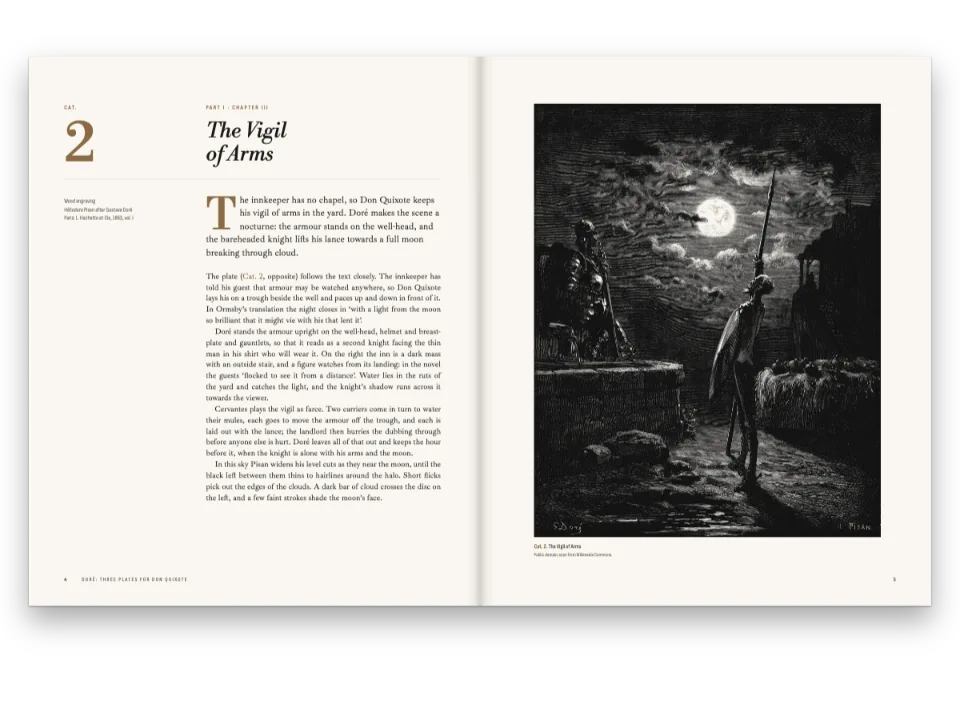
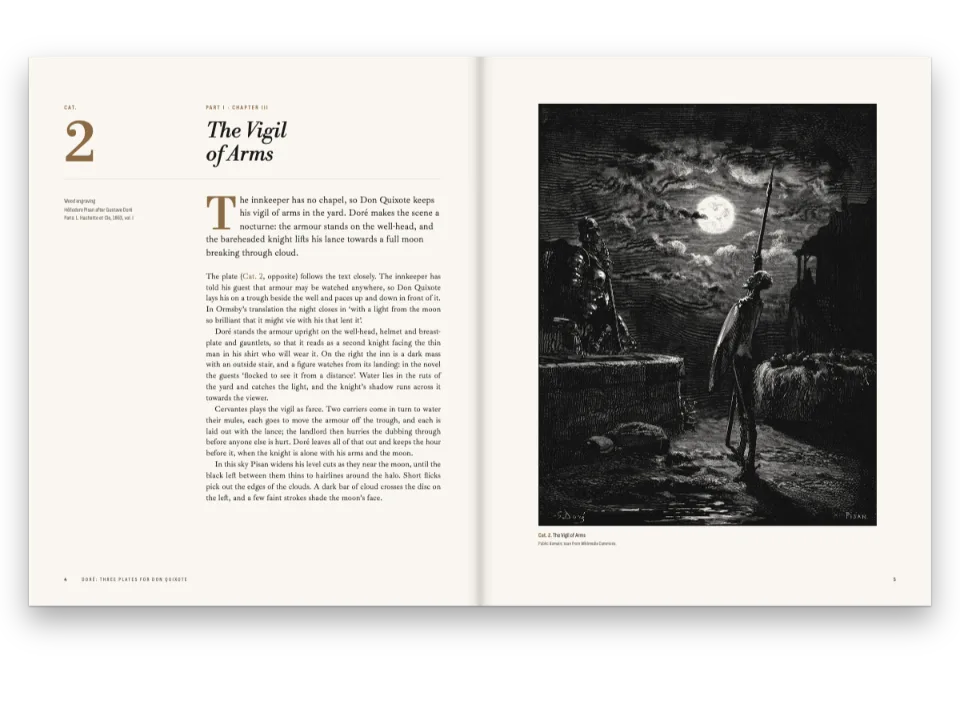
cookbook: Nº 034 shrinks its plates to the text block on 1.24
Nº 034 catalogue-facing-plates places each plate with shrink: 'page',
minScale 0.5, captionMeasure 'body' and align 'center', so the engine
scales plate, caption and credit to the text block (about 215 mm tall,
283 dpi) instead of a width fraction computed from PLATE_H; UNDER,
PLATE_H and workaround EF-98 are gone, and the write-ups explain the
placement in seven languages. Pinned to postext 1.24.0 and recaptured
from npm: only the three plate pages change. The float-shrink gap is
fixed in 1.24.0.

refs #626

Changed region(s): [[0.5312, 0.1528, 0.9375, 0.7944]]

diff --git a/cookbook/catalogue-facing-plates/script.js b/cookbook/catalogue-facing-plates/script.js
@@ -1,7 +1,7 @@
 // ═══ Postext Cookbook · Nº 034 · Catalogue entries facing their plates ══════════════
 // https://postext.dev/en/cookbook/catalogue-facing-plates
 // Code: MIT · Text: original (CC BY 4.0), Ormsby 1885 (PD) · Plates: Doré and Pisan, 1863 (PD)
-// Fonts: Ibarra Real Nova, Libre Bodoni, Sofia Sans Condensed (OFL 1.1) · Needs postext ≥ 1.23.0
+// Fonts: Ibarra Real Nova, Libre Bodoni, Sofia Sans Condensed (OFL 1.1) · Needs postext ≥ 1.24.0
 import { buildDocument, renderPageToCanvas, clearMeasurementCache, registerResourceImage }
   from 'https://esm.sh/postext';
 
@@ -47,19 +47,17 @@ const entryLevel = () => ({
 const plateType = {
   id: 'plate', name: 'Cat.', shortLabel: 'Cat.', captionPrefix: 'Cat.', // 'Cat. 1. …'
   numberingTemplate: '{n}', resetOn: 'never', counterFormat: 'decimal',
-  defaultPlacement: { position: 'top', span: 'page', align: 'center' },
+  // A plate taller than the recto's text block is scaled, proportions kept, until plate, caption
+  // and credit line fit it; the caption takes the plate's width, and both are centred.
+  defaultPlacement: { position: 'top', span: 'page', align: 'center',
+    shrink: 'page', minScale: 0.5, captionMeasure: 'body' },
 };
-// Under the plate (pt): a caption and a credit line at the body's leading ratio, and their gaps.
+// Under the plate (pt): a caption and a credit line, and their gaps.
 const CAPTION = { size: 8.5, gap: 6, note: 7.2, noteGap: 1.5 };
-const UNDER = (CAPTION.size + CAPTION.note) * (LEAD / SIZE) + CAPTION.gap + CAPTION.noteGap;
-const PLATE_H = (LINES * LEAD - UNDER) * PT; // 221.1 mm: the rest of the text block
-// A float is not shrunk to fit the room left on its page (gap: float-shrink); fitFiguresToPage
-// sets the smaller picture flush left. A width fraction narrows the float, and 'center' centres it.
 const plate = ({ id, file, caption, altText }, [pxW, pxH]) => ({
   id, typeId: 'plate', kind: 'bitmap', caption, note: CREDIT, altText,
-  // The print master's pixels, about 275 dpi at this size (gotcha: bitmap-print-size).
-  bitmap: { fileId: file, format: 'jpeg', width: pxW, height: pxH },
-  placement: { width: Math.min(1, ((pxW / pxH) * PLATE_H) / BLOCK_W) }, createdAt: 0, updatedAt: 0,
+  // The print master's pixels, about 283 dpi at this size (gotcha: bitmap-print-size).
+  bitmap: { fileId: file, format: 'jpeg', width: pxW, height: pxH }, createdAt: 0, updatedAt: 0,
 });
 // #endregion
 const MASTER_PX = { library: [1900, 2400], vigil: [1921, 2400], windmills: [1923, 2400] };
@@ -183,7 +181,7 @@ const footer = { elements: [ // folios at the outer foot; entries (versos) add t
 const config = () => ({ // a factory: the engine caches resolved configs per object
   colorPalette, resourceTypes: [plateType, listType],
   // A bitmap is never set wider than its declared pixels at this dpi: at 150 dpi a 1,900-px
-  // scan may reach 322 mm, so the width fraction decides (at 300 dpi it stops at 161 mm).
+  // scan may reach 322 mm, so the text block decides (at 300 dpi it stops at 161 mm).
   page: { width: mm(TRIM.w), height: mm(TRIM.h), dpi: 150, backgroundColor: col('paper'),
     margins: { top: mm(TOP), bottom: mm(TRIM.h - TOP - BLOCK_H), left: mm(INNER),
       right: mm(OUTER), mirror: true } },
